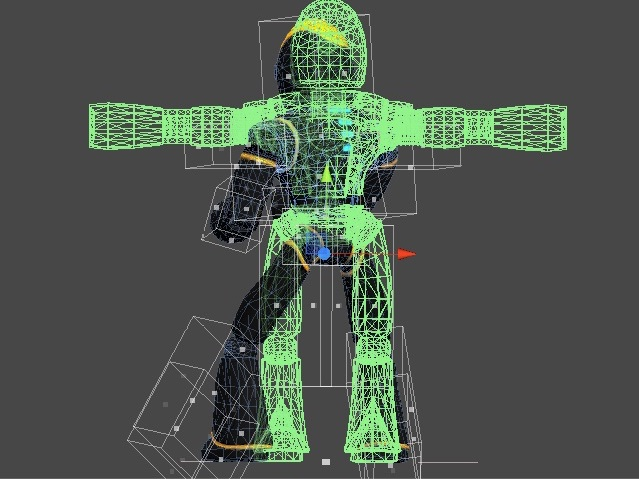
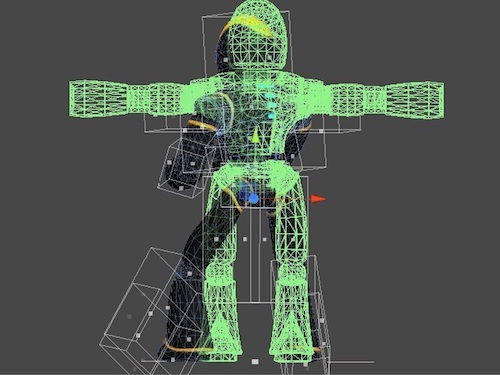
update

diff --git a/_posts/2018-03-06-Unity-최적화-Tips.md b/_posts/2018-03-06-Unity-최적화-Tips.md
@@ -5,7 +5,7 @@ comments: true
 tags:
 - Unity
 ---
-<img src="{{ 'assets/images/2018-03-05/0.jpg' | relative_url }}" alt="unity" style="width:100%;"><br>
+<img src="{{ 'assets/images/2018-03-05/0.jpg' | relative_url }}" alt="unity"><br>
 2월 26일에는 구글 캠퍼스에서 진행된 Unity 워크샵의 두번째 세션인 Unity를 최적화 하기 위한 팁들이다. 발표 내용은 굉장히 짧게 느껴졌지만 내용들은 쓸모있는 것들만 가득 차있어서 받아적는데 정신이 없을 지경이었다. 간단한 방법부터 시작해서 기존 프로젝트를 아예 새로 만드는게 나을 정도로 프로젝트 내에 긴밀하게 연결되어 있는 부분부터 여러가지 최적화 방법이 있으니 가장 빨리 할 수 있는 것부터 차근차근 진행하는게 올바른 방법이다.
 
 ## 최적화 단계
@@ -93,7 +93,7 @@ tags:
 </div>
 
 ## Physics 최적화
-<p><span class="image right"><img src="{{ 'assets/images/2018-03-06/13.png' | relative_url }}" alt="physics" style="width:400px;"/></span> Physics 최적화의 방법은 간단하면서도 어려운 부분이 많다. Unity의 Physics 알고리즘은 개발자가 건드릴 수 있는 부분이 아니거니와 게임이 복잡해질수록 Cost가 드는 것이 당연한데 쾌적한 Performance도 포기할 수 없는 중요한 요소이기 때문이다. 발표에서는 개발자 입장에서 할 수있는 몇가지 방법을 제안하였다.</p>
+<p><span class="image right"><img src="{{ 'assets/images/2018-03-06/13.png' | relative_url }}" alt="physics"/></span> Physics 최적화의 방법은 간단하면서도 어려운 부분이 많다. Unity의 Physics 알고리즘은 개발자가 건드릴 수 있는 부분이 아니거니와 게임이 복잡해질수록 Cost가 드는 것이 당연한데 쾌적한 Performance도 포기할 수 없는 중요한 요소이기 때문이다. 발표에서는 개발자 입장에서 할 수있는 몇가지 방법을 제안하였다.</p>
 
 ### 해결방법
 1. Scene의 복잡도를 줄이자
